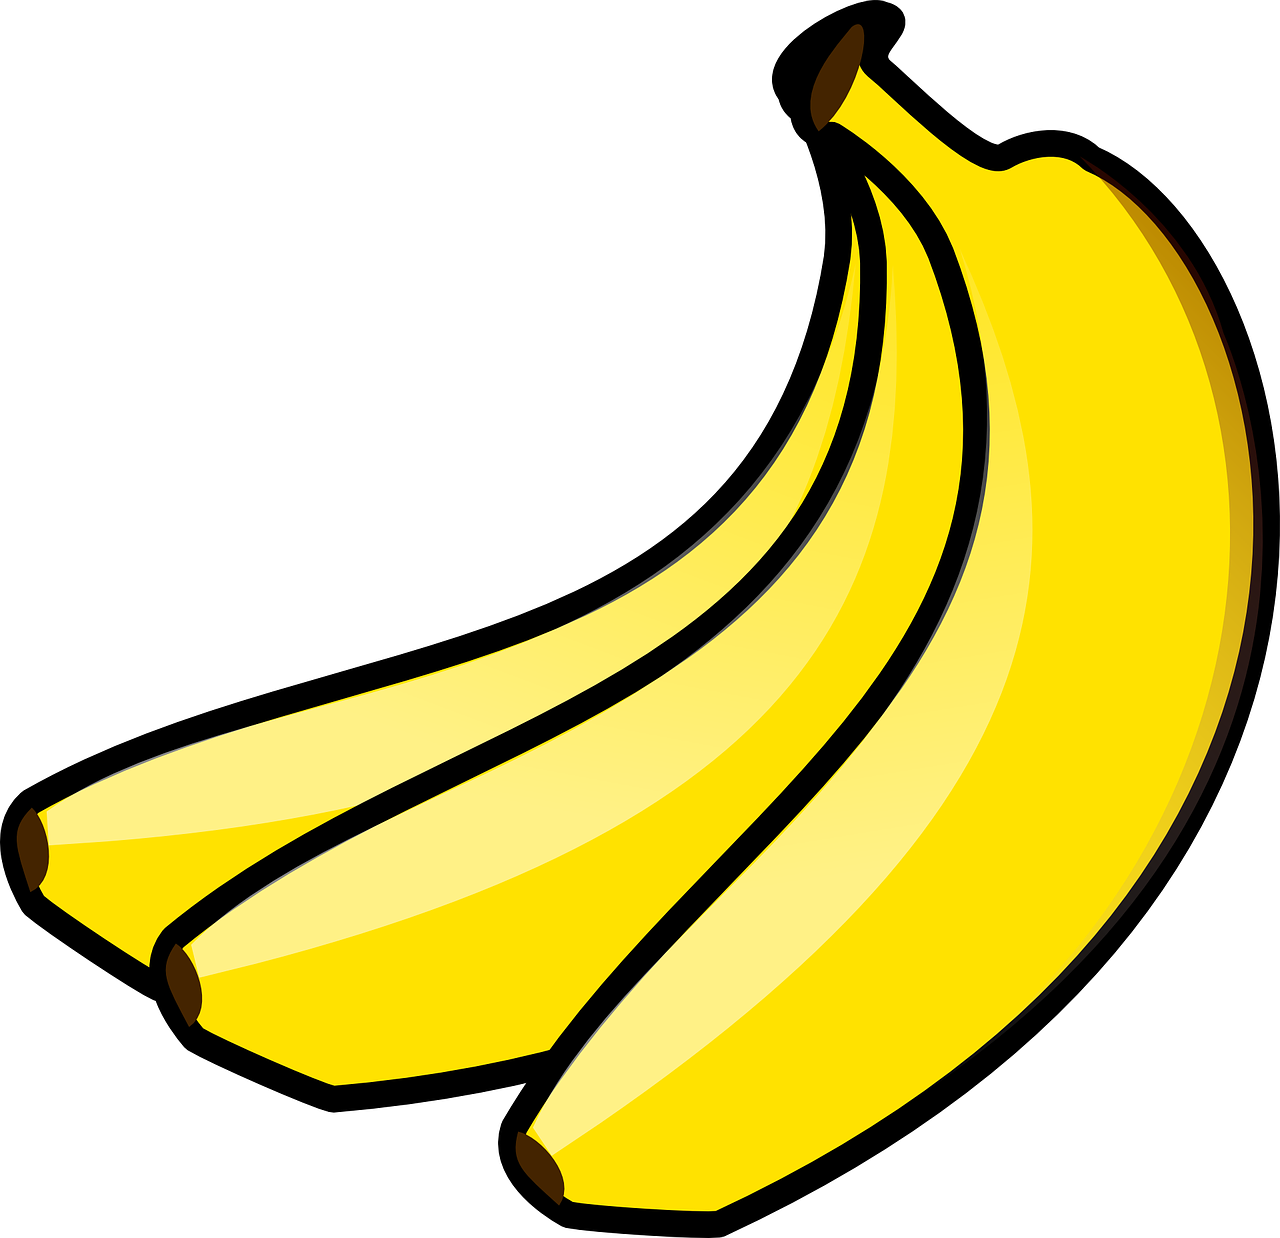
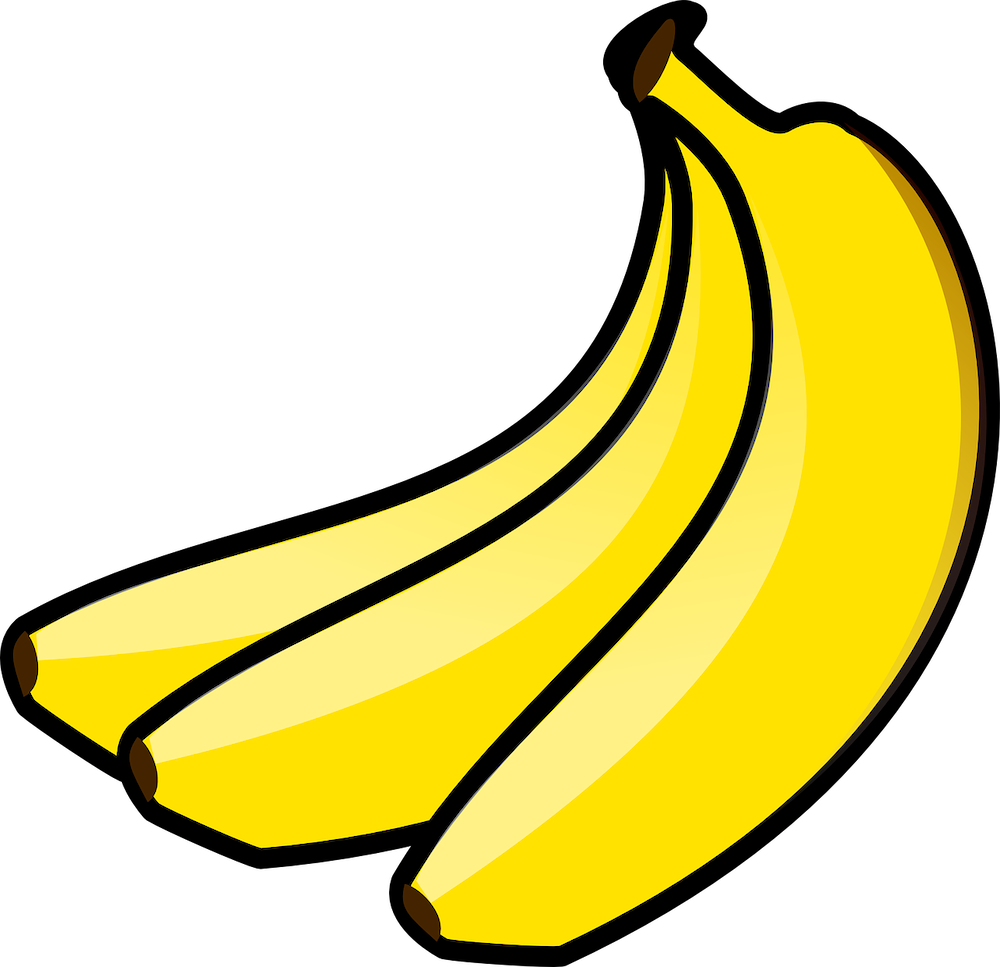
add brand

diff --git a/js/main.js b/js/main.js
@@ -179,6 +179,7 @@ const tallymin = {
 			tableCfg.data = tableData;
 		}
 		this.table = new Tabulator(this.containerSelector, tableCfg);
+		this.initSound();
 		// enable copying
 		tallymin.table.copyToClipboard('all');
 
@@ -254,6 +255,7 @@ const tallymin = {
 			});
 		});
 
+		// close intercom on click
 		document.getElementById('intercom').addEventListener('click', function() {
 			this.classList.remove('show');
 			intercom.innerHTML = '';
@@ -262,6 +264,25 @@ const tallymin = {
 				clearTimeout(tallymin.intercomTimer);
 			}
 		});
+
+		// icon hover play
+		document.getElementById('brand-image').addEventListener('mouseover', function() {
+			window.sound.unMute();
+			window.sound.setVolume(100);
+			window.sound.seekTo(5);
+			window.sound.playVideo();
+		});
+
+		document.getElementById('brand-image').addEventListener('mouseout', function() {
+			window.sound.stopVideo();
+		});
+	},
+	initSound: function() {
+		var tag = document.createElement('script');
+		tag.id = 'iframe-demo';
+		tag.src = 'https://www.youtube.com/iframe_api';
+		var firstScriptTag = document.getElementsByTagName('script')[0];
+		firstScriptTag.parentNode.insertBefore(tag, firstScriptTag);
 	},
 	sortScoreColumn: function() {
 		const sorters = tallymin.table.getSorters();

diff --git a/index.html b/index.html
@@ -10,6 +10,13 @@
 		<link rel="stylesheet" href="./css/main.css"></link>
 	</head>
 	<body>
+		<div class="brand">
+			<div id="brand-image"></div>
+			<h1>
+				tally me banana 
+				<i class="fas fa-music"></i>
+			</h1>
+		</div>
 		<div id="tallymin-container" class="container">
 			<div id="intercom"></div>
 			<div class="controls top">
@@ -51,10 +58,17 @@
 			</div>
 			<div class="instructions">
 				<h4><i class="fas fa-copy"></i> Copy Results</h4>
-				<p>Click into an editable field and press Ctrl+C to copy all names and scores to your clipboard.</p>
+				<p>Click into an editable field and press Ctrl+C / Cmd+C to copy all names and scores to your clipboard.</p>
 			</div>
 		</div>
+		<iframe preload="auto" id="sound" type="text/html" width="320" height="195" 
+			src="https://www.youtube.com/embed/6Tou8-Cz8is?enablejsapi=1" frameborder="0"></iframe>
 		<script type="text/javascript" src="./vendor/tabulator/js/tabulator.min.js"></script>
 		<script src="./js/main.js"></script>
+		<script type="text/javascript">
+			onYouTubeIframeAPIReady = () => {
+				window.sound = new YT.Player('sound', {});
+			}
+		</script>
 	</body>
 </html>

diff --git a/css/main.css b/css/main.css
@@ -86,6 +86,10 @@ button:hover i {
 	color: var(--control-hover-text);
 }
 
+.brand i {
+	color: var(--base-text);
+}
+
 .tabulator .tabulator-header .tabulator-col {
 	background-color: var(--table-header-bg);
 }
@@ -156,6 +160,47 @@ button:focus {
 
 .container {
 	margin: 50px auto 0 auto;
+}
+
+.brand {
+	position: relative;
+	top: 5px;
+	left: 10px;
+	overflow: hidden;
+}
+
+#brand-image {
+	height: 50px;
+	width: 50px;
+	background-image: url('../images/single-banana.png');
+	background-size: contain;
+	background-position: center;
+	background-repeat: no-repeat;
+	background-color: white;
+	cursor: pointer;
+	position: relative;
+	z-index: 2;
+}
+
+#brand-image:hover {
+	background-image: url('../images/multi-banana-resized.png');
+}
+
+.brand h1 {
+	position: absolute;
+	font-size: 10px;
+	left: -100px;
+	top: 0;
+	z-index: 1;
+	transition: left 0.25s;
+}
+
+#brand-image:hover + h1 {
+	left: 60px;
+}
+
+#sound {
+	display: none;
 }
 
 .tabulator .tabulator-header .tabulator-col[tabulator-field="rowSelection"] {
